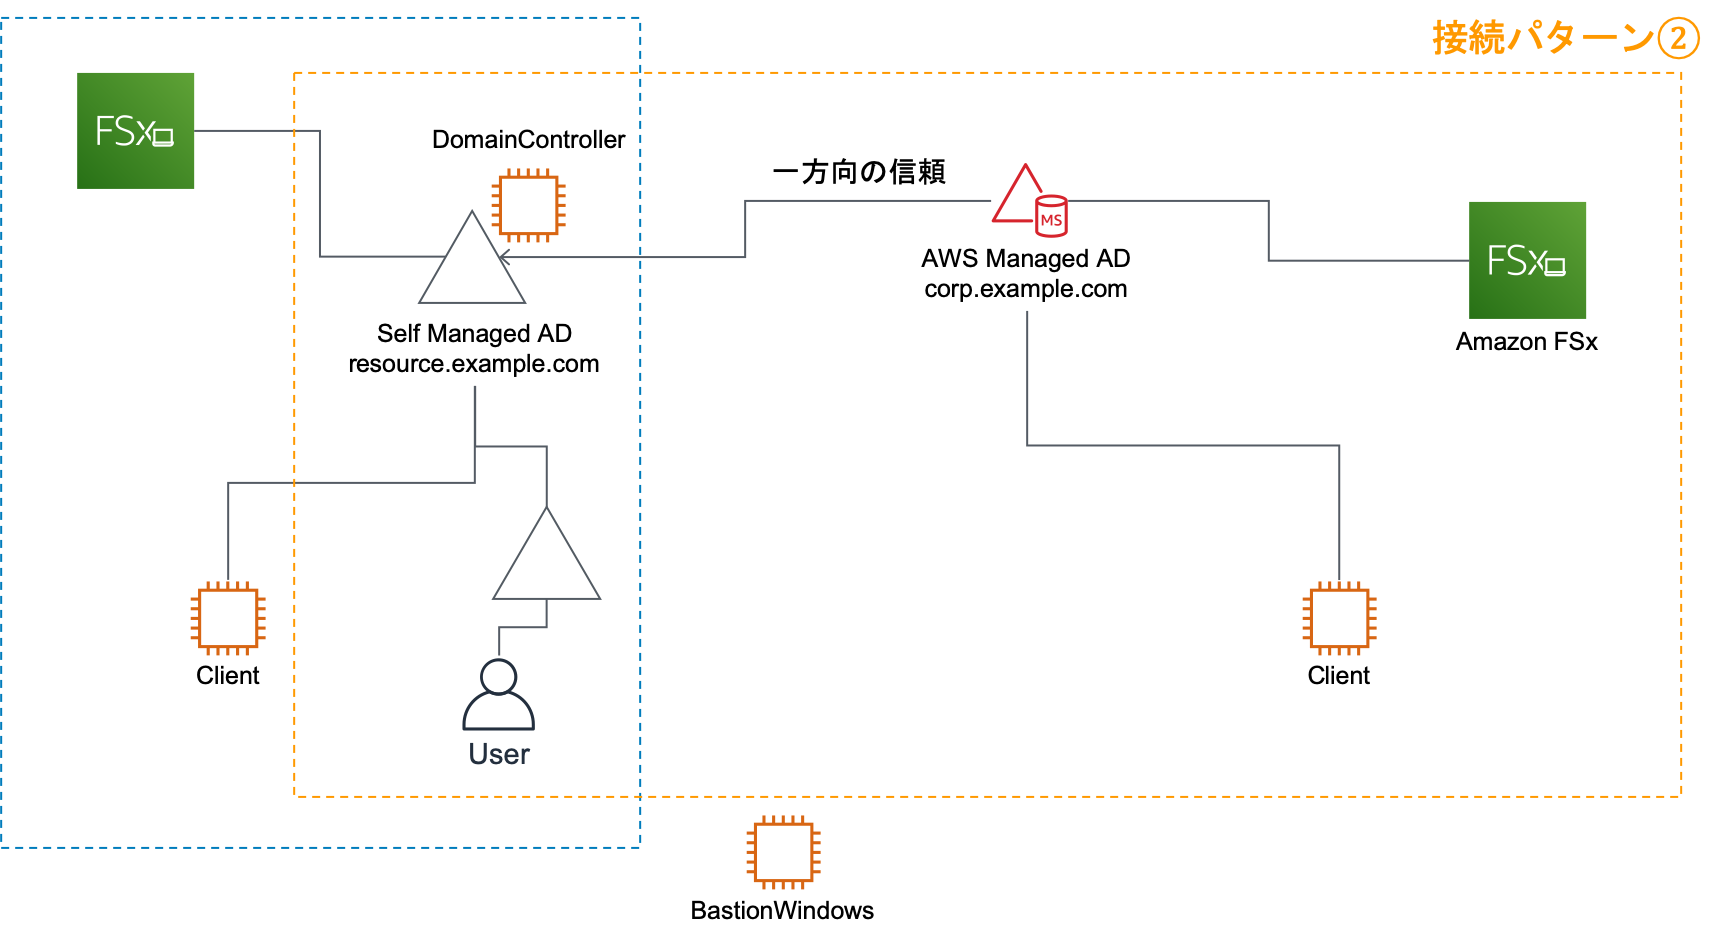
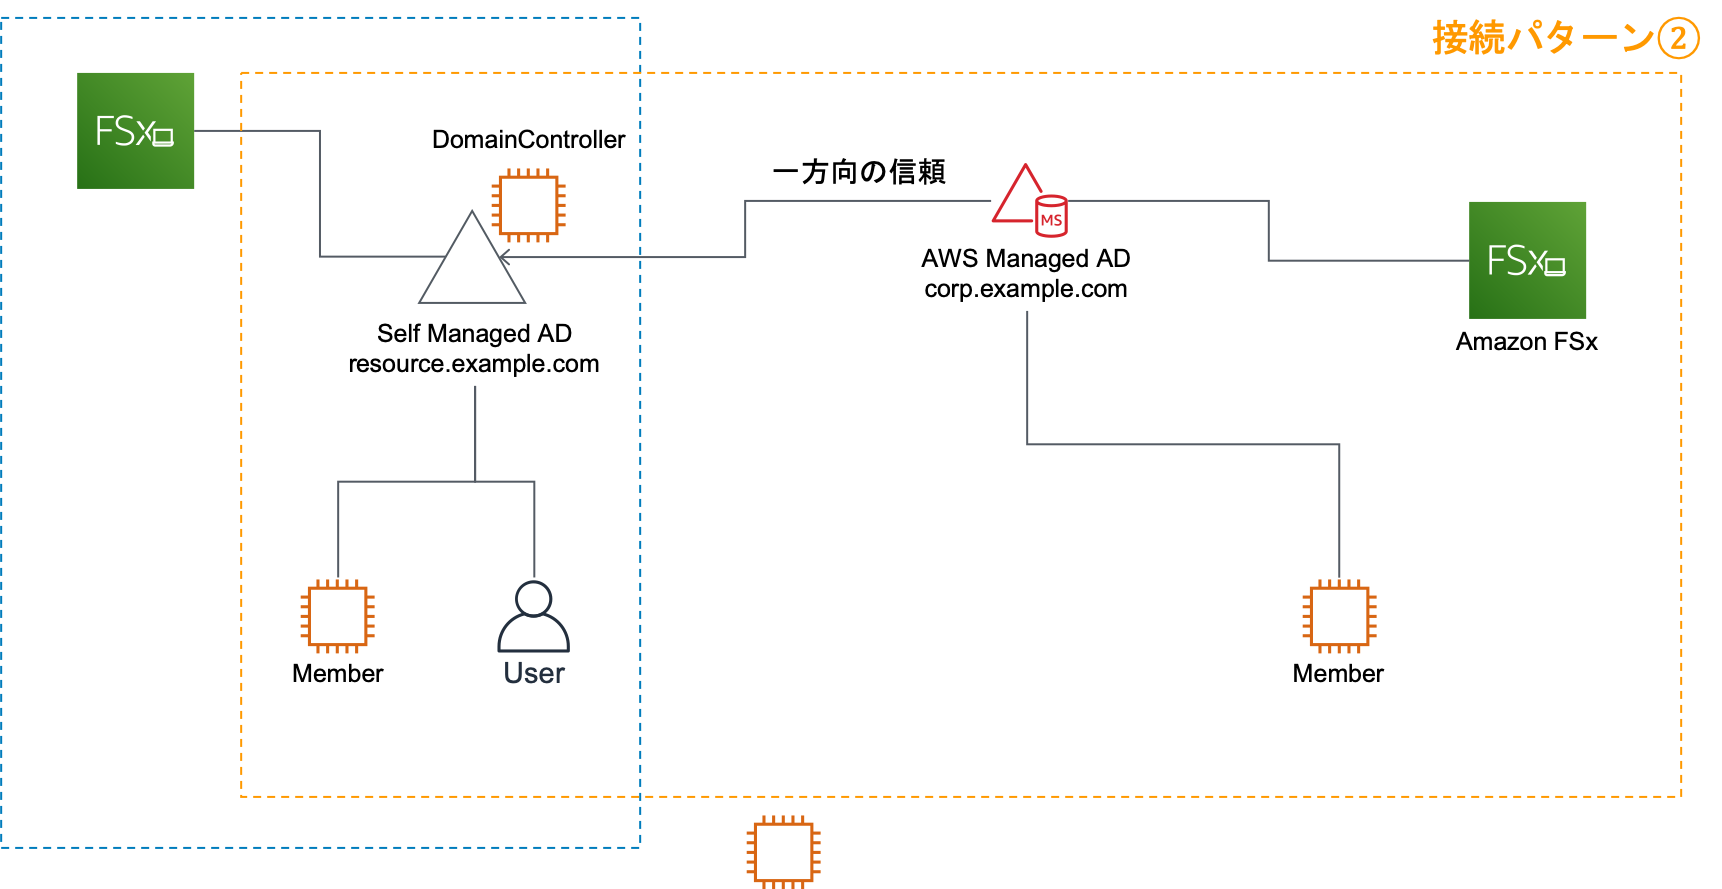
update

diff --git a/README.md b/README.md
@@ -141,7 +141,7 @@ Install-ADDSForest `
 -Force:$true
 ```
 
-### クライアントWindowsのドメインへの参加
+### メンバーWindowsのドメインへの参加
 
 ドメインコントローラーのIPアドレスを確認します。
 
@@ -153,7 +153,7 @@ aws ec2 describe-instances | \
            .PrivateIpAddress'
 ```
 
-踏み台サーバーを経由してクライアント用のWindows（ClientWindows）にRDPし、PowerShellを起動します。
+踏み台サーバーを経由してメンバー用のWindows（MemberWindows）にRDPし、PowerShellを起動します。
 あるいは、セッションマネージャーでPowerShellを起動します。
 
 DNSを変更します。
@@ -179,12 +179,12 @@ Add-Computer -DomainName resource.example.com -Credential $Credential
 Restart-Computer -Force
 ```
 
-### クライアントWindowsへのログイン確認
+### メンバーWindowsへのログイン確認
 
-踏み台サーバーから、クライアントWindowsにドメインユーザーでRDPできることを確認します。
+踏み台サーバーから、メンバーWindowsにドメインユーザーでRDPできることを確認します。
 Self Managed ADのドメインユーザーは`Administrator@resource.example.com`です。
 パスワードはドメインコントローラーの`Administrator`ユーザーのパスワードなので、マネジメントコンソールで確認できます。
-上手くいかないときはドメインコントローラーとクライアントを再起動してみてください。
+上手くいかないときはドメインコントローラーとメンバーを再起動してみてください。
 
 ### FSxのデプロイ
 
@@ -208,17 +208,17 @@ aws fsx describe-file-systems | \
            .DNSName'
 ```
 
+RDPで接続し、ネットワークドライブを割り当てます。
+
 ## AWS Managed AD（corp.example.com）のセットアップ
 
-AWS Managed ADと、このドメインの管理下に置くWindowsをデプロイします。
+AWS Managed ADと、このドメインの管理下に置くメンバーWindowsをデプロイします。
 
 ```shell
 cdk deploy *AWSManagedADStack --require-approval never
 ```
 
-RDPで接続し、ネットワークドライブを割り当てます。
-
-### クライアントWindowsのドメインへの参加
+### メンバーWindowsのドメインへの参加
 
 ADのDNSサーバーのアドレスを確認します。
 
@@ -227,7 +227,7 @@ aws ds describe-directories | \
   jq -r '.DirectoryDescriptions[] | select( .Name == "corp.example.com" ) | .DnsIpAddrs[]'
 ```
 
-踏み台サーバーを経由してクライアント用のWindowsにRDPし、PowerShellを起動します。あるいは、セッションマネージャーでPowerShellを起動します。
+踏み台サーバーを経由してメンバー用のWindowsにRDPし、PowerShellを起動します。あるいは、セッションマネージャーでPowerShellを起動します。
 
 AD管理に必要なツールをPowerShellでインストールします。
 
@@ -261,9 +261,9 @@ Add-Computer -DomainName corp.example.com -Credential $Credential
 Restart-Computer -Force
 ```
 
-### クライアントWindowsへのログイン確認
+### メンバーWindowsへのログイン確認
 
-踏み台サーバーから、クライアントWindowsにドメインユーザーでRDPできることを確認します。
+踏み台サーバーから、メンバーWindowsにドメインユーザーでRDPできることを確認します。
 AWS Managed ADのドメインユーザーは`Admin@corp.example.com`です。パスワードは`cdk.context.json`で指定してます。
 上手くいかないときはドメインコントローラーとクライアントを再起動してみてください。
 
@@ -301,7 +301,8 @@ Add-DnsServerConditionalForwarderZone `
 Get-DnsServerZone
 ```
 
-Self Managed AD側で入力方向の一方向の信頼関係を作成します。ここをPowerShellでやるのは大変なので（New-ADTrustのようなコマンドがない）、GUIでやります。
+Self Managed AD側で入力方向の一方向の信頼関係を作成します。
+ここをPowerShellでやるのは大変なので（New-ADTrustのようなコマンドがない）、GUIでやります。
 
 「Active Directory ドメインと信頼関係」から「新しい信頼」を作成します。
 
